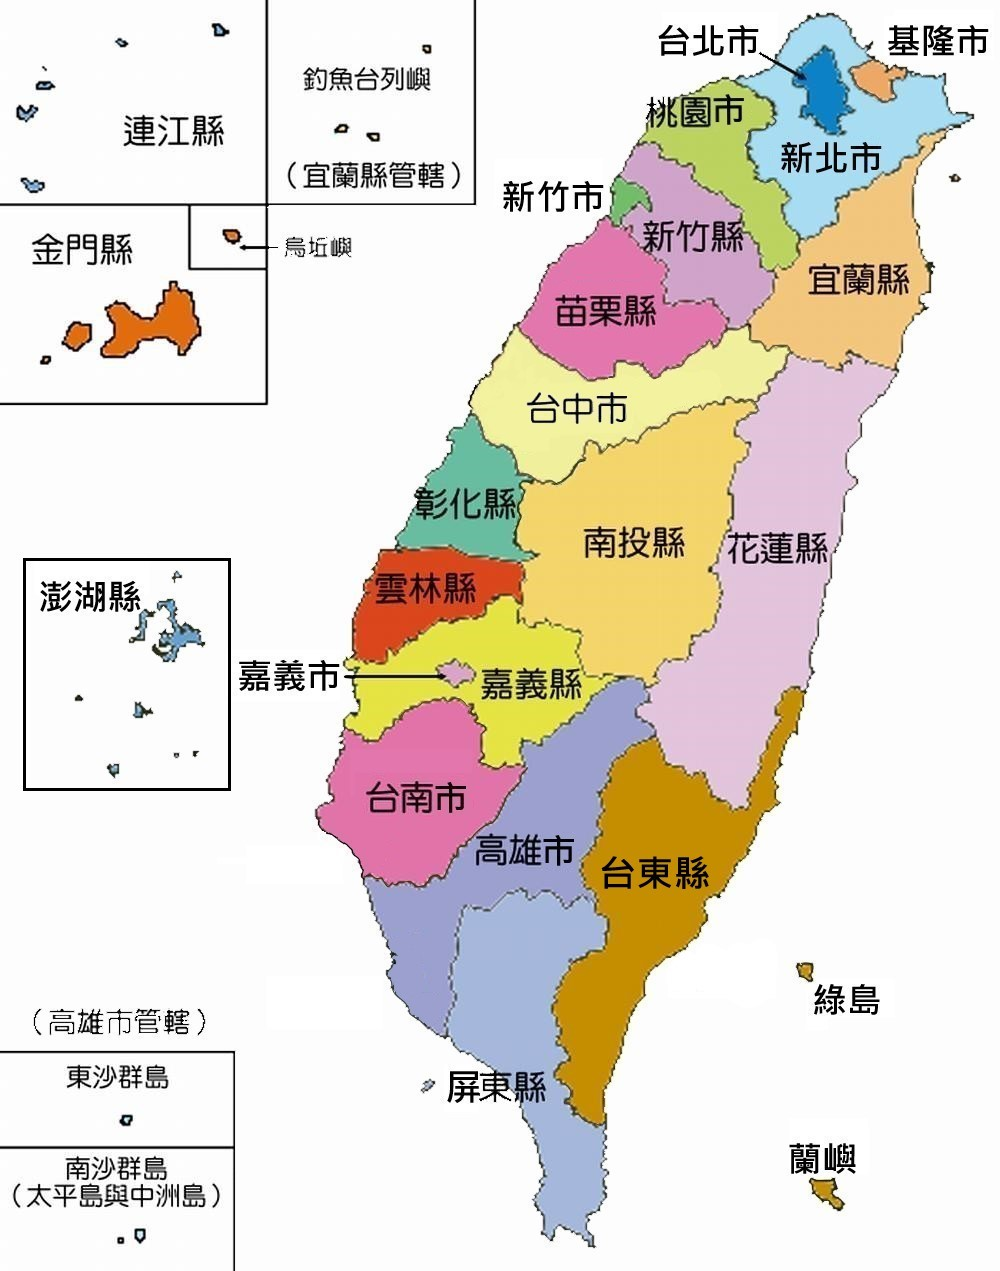
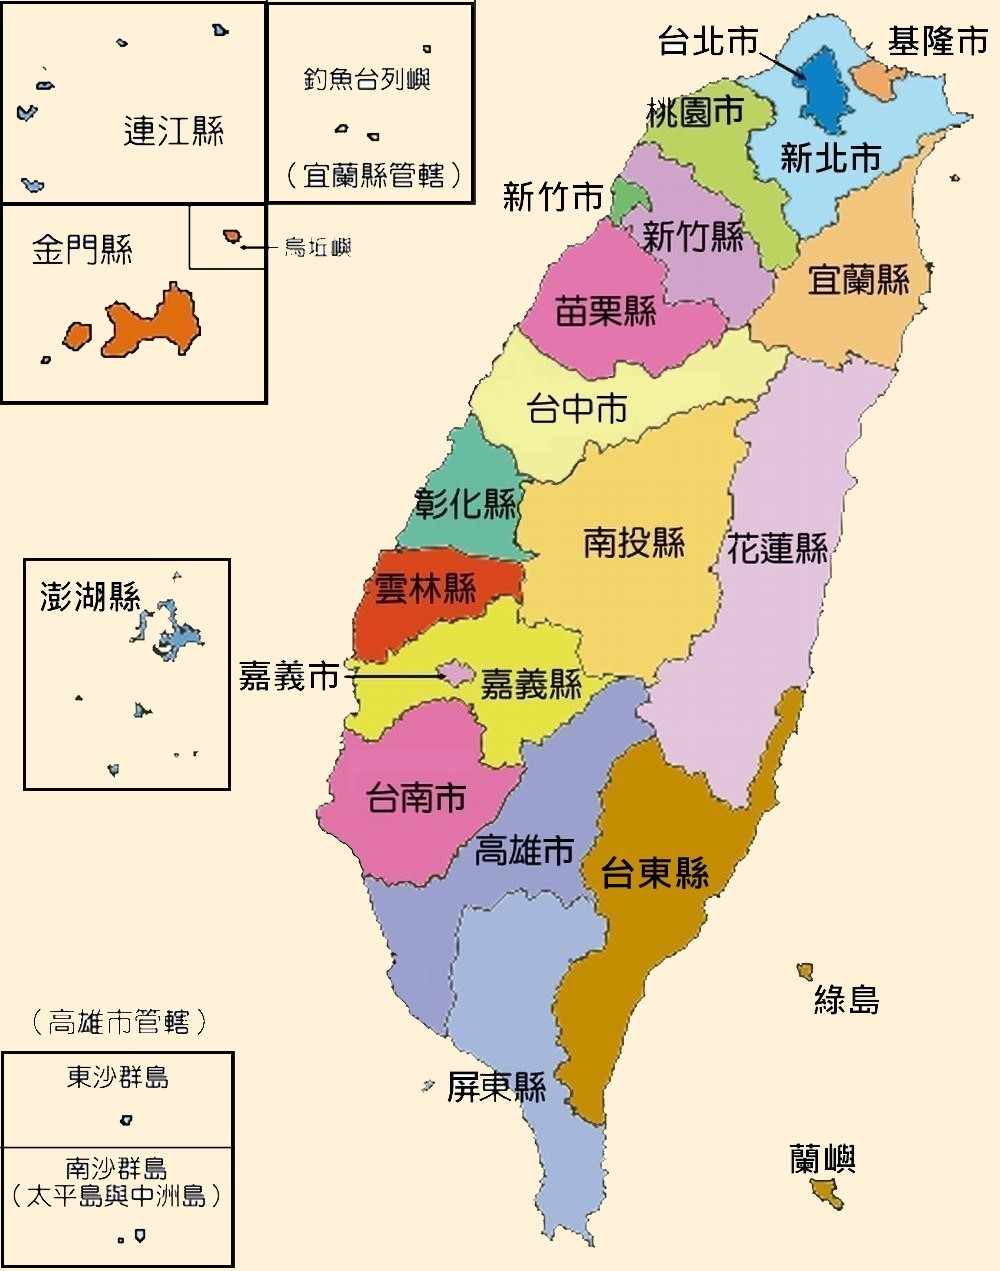
Ver.4
1. 補上"龜山島"
2. 解決"台北"&"基隆"被遮擋問題 (path "新北" 調到最上面)
3. 設版本ver字樣
4. 照片底色更換 (原white

diff --git a/index.html b/index.html
@@ -29,12 +29,15 @@
               <!-- <title>
                   Taiwan_Weather
               </title> -->
+              <!-- 新北 -->
+              <path id="new_taipei" data-name="new_taipei_city" class="96fdfe13-4732-40bb-9e9c-cdc6e310fcb9" d="M571.73,105.84l-1,.09-.77.7-.79-1.47-.94-.34-.6-.68-1-.23-1.24,0-.57.58-1.15.72-2.75-.26-3.37-2.75-.26-1V97.39l-.43-.51.94-.68-.17-.43-2.84-2.86L554,90.84l1-3.09,1-.7.26-1-.43-.85-.68-.62-.43-.6.51-.85.85-.53V81.28l-1.2-.09-1.13.26-.68.68-2.33.79h-1.3L545.41,82l-1,.43-1-.43-3-.09-2-.6-.94.51-.87.85h-1.11l-.7-.85.26-1.11.53-.87.43-.43h-1.3l-1.11.43h-1.24v.79l-.61,1.46-1,1-1.22,1.95-.61-.12-1.22-.85L526,83.73l-2,2.07-1.59.37.37,1.46v3.29L526,94l-.49,1.46-.73,1.22-1.71.12L520,98.36l-3.54-.24-3.66-3.17L508,93.73l-1.1-1.22V91.17l-1,.85-1.59-.37-1.1-1.46-1.59-1.1-2.07-4.63-.12-1.71-1-1.1-1.59-.49-.73-1.34V78l3.29-.37,1.22-.85,1.34-.49,1.71-.12,2.8-1.22.85-1.1,1.58-.37.73-1.1,1.34-.49,1-.76-2-1.43-1-.34-1.11-.77-.36-.87.45-1,2-1-.19-.51-.77-.68.68-.77,1-.53.85-.77-.26-.77-3.09,2.67-4.31.26-3.37-3.46-.17-.85.85-.87-.43-.85h-1.37l-1-.43L497,56.78l.36-2.58L497.14,53l-.45-.85-.77-.68-2.5-3.54-2.16-.68-1.22-1.56-.94-.51h-1.3l-.94-.62-.7-.77-.85-.51-.3-.06-.92.15-.68.77-.34,1h-4.14l-1.3-1.39-.77.51v1.3l-.77.51-3.46.51-.43-1.11-.43.43-.17,1.22-1,.77-2.33.6-.94.7-1.13.34-2.41,5.08-.43.09-2.52-.34-.85.68L460,56.27l-.68.77-.26,1-.87,1.73L458,61.09l-.6.87-.87.51L455.06,64l-.17,1.28L453.5,67.9l-1.3.36-.77-.09.17.77,2.33,2.16,1.3.09,2.41,1.13,1,1.79,1,.7.68.85,1.47,3,.17,5.16-.6.51-.17-1.11-.53-1.13L460.48,81l-1.37-1.81L459,78l-.45-1.2L457,75.24l-4-2.58h-1.3l-.77.68L450.58,75l-2.52,2.41-1.11.34L445,78.87l-1,.26L441.17,81l-3.52,1.11-.87.6-8.2.09-1.64,1.56-.65,1,1.24,1.7.85.24.85,1.1,3.41.37,6.34,3-.37,2.44L440,95.44l3.54.85h3.66l.85.61,1.22,1.46.37,1.59v.49l-.61,1.22.24,1.59.85,1,1.59,1.1-.61,1.1-1.34.85-1.34.49,1.46,1.1.12,1.46-1.1.73-1.46.49L446.05,114l-2,1.34-7.68-.24-1.22.61-.36,1.46.73,1.34-.37,3.41-1,1-.61,1.34.85,1.59,1.46.12,1.1.85-1.46,1-.85,1-.61,1.34.61,2.93,3,1.83,2.32,3.54-.85,1.1.24,1.46.12.12,1.71,1.1-1.1.85-3.17.61-.12,1.46,1.71.24,1.1-.85,1.1,1.1,1.22.73,2,.49,1.83-.12,1.34-.73,3.66-.24.85.49.24.61,1,1,.49,1.34,2,2,1.1.61,1.1,1.22.12,1.71.61,1.71,1.59.49v1.83l-1.1.73-.73,1.1-2.2,1.83-.73,1.34.24,1.59.61,1.22v.73l1.34,3.41,2.19,2.07L459.1,174l1.71.73.12,1.22,1.71.49,1,1.34,1.34,1,.37,3.41,1,.42,3.26.19,1.59-1,3.17-.49,3.54-2.32.37-1.71,4-2.19,1.83-.12,1.46-.49.73-1.1,1.1-.85,1.58-.24,1-2.93v-1.83l-.49-1.46-1-1-.24-1.71,1.34-1.1.24-1.59-.12-1.71.61-1.34,1.46-.37,1.22-.73,1.71.49,1.59-1.22.37-1.46-1-.85,7.19-.85,2.44-1.22,1.1,1.22.49-1.34,1.46-.49.73-1.22,1.22-1.1.37-1.16,3.29-1.77,1.83-2.19,1.34-.73,1.59-.24,5.12.73,1.22-.61,1.71-.37-.12-.85.12-1.46,1-1.22.12-1.46-.37-1.58,1.71-2.2,2.07-1.71,1.58-.24,3.66.24,4-2.68,1-2.93-2.8-4,.61-1.22.37-1.46,1.22-1,3.54.24,1.59.61h2l1-1.1,4.63-3.29,3.66-.24,4.27-1.58,1.71-.12,2.53.47h0l.76-.34.53-1,1.2-.08.51-.77,1.9-.87.53-.9,1.28-.12.47-1,0-1Zm-68.86-.62-4.63-.24-1.46.37-1.1.73-3.41-.24-1.22.73-.85,1.34v1.58l.85,2.8-.12,1.46.24,1.71,3.29,1.59-.12,1.22h-2l-1.46.61-6.83-.73-2.56-1.71-.73-2.93-1.71-.12-1.58-1.1-.85-1.46V109l-.49-1.34-1.1-.85-2-.85-.85.12-.85,1.22-1.34.73-1.46.12-.73-1.46-.37-3.54.61-1.34,1.22-1.1,1.83-2.56L471,92.54l-1-1.83-2.44-2.32-3.9-.49-1.22-.85L462,85.47l.24-1.59,1.22-.73V81.32l.85-1,.24-.49.85-.85.85-1.83h0l1.59-.48.61-1.59,2.07-2.44,1.34-.61,1.71-.12,1.1-.73.61-1.59,2.56-1.46.61-1.34,1.34-.61,1.71-2.68,1,1.1,1.34,2.44,3.17-.24v1.83L486.52,70v1.83l2,2,.12,3.54.73,1.1,2,1.71.37,1.22-1,1.1L490.3,84l5.24,4.51.37,3.17L494.33,95l-.73.85,1,1,.24,1.34-.85,1.1.61,1.34,3.29,2.44,2.68,1.22,1.58-.49,1.1.49Z"/>
+              
+              
               <!-- 基隆 -->
               <path id="keelung" data-name="keelung_city" class="96fdfe13-4732-40bb-9e9c-cdc6e310fcb9" d="M532.38,80.68l.05-.79-.73-.77L532,76.8l-1.22.09-1.62,1-1.47-1.37-1.3-.11-.6-.43V74.56l-1.11-.28-.53,1-1,.26-.26-1H522l.34,1,1,1.39-1.22,1.54-1.9,1.39-.85.09,1.56-1.47-.53-.94V75.33l-1-.09-.94-.51-1.22-.17-1.39-1.39h-2.67l-.77-.51.18-.93-.29-.61L511,71.9l-1.34.49-.73,1.1-1.58.37-.85,1.1-2.8,1.22-1.71.12-1.34.49-1.22.85-3.29.37v1.83l.73,1.34,1.59.49,1,1.1.12,1.71,2.07,4.63,1.59,1.1,1.1,1.46,1.59.37,1-.85v1.34l1.1,1.22L512.75,95l3.66,3.17,3.54.24,3.17-1.58,1.71-.12.73-1.22L526,94l-3.17-3V87.63l-.37-1.46,1.59-.37,2-2.07,1.71.37L529,85l.61.12,1.22-1.95,1-1,.61-1.46h0Z"/>
               <!-- 台北 -->
               <path id="taipei" data-name="taipei_city" class="96fdfe13-4732-40bb-9e9c-cdc6e310fcb9" d="M466.27,77.17,465.42,79l-.85.85-.24.49-.85,1v1.83l-1.22.73L462,85.47l.49,1.59,1.22.85,3.9.49,2.44,2.32,1,1.83.12,5.61-1.83,2.56-1.22,1.1-.61,1.34.37,3.54.73,1.46,1.46-.12,1.34-.73.85-1.22.85-.12,2,.85,1.1.85.49,1.34v1.83l.85,1.46,1.58,1.1,1.71.12.73,2.93,2.56,1.71,6.83.73,1.46-.61h2l.12-1.22-3.29-1.59-.24-1.71.12-1.46-.85-2.8v-1.58l.85-1.34,1.22-.73,3.41.24,1.1-.73,1.46-.37,4.63.24.37-1-1.1-.49-1.58.49L497.86,103l-3.29-2.44L494,99.25l.85-1.1-.24-1.34-1-1,.73-.85,1.59-3.29-.37-3.17L490.29,84l.37-1.59,1-1.1-.37-1.22-2-1.71-.73-1.1-.12-3.54-2-2V70l.49-1.34V66.81l-3.17.24-1.34-2.44-1-1.1-1.71,2.68-1.34.61-.61,1.34-2.56,1.46-.61,1.59-1.1.73-1.71.12-1.34.61-2.07,2.44-.61,1.59-1.59.48h0Z"/>
-              <!-- 新北 -->
-              <path id="new_taipei" data-name="new_taipei_city" class="96fdfe13-4732-40bb-9e9c-cdc6e310fcb9" d="M571.73,105.84l-1,.09-.77.7-.79-1.47-.94-.34-.6-.68-1-.23-1.24,0-.57.58-1.15.72-2.75-.26-3.37-2.75-.26-1V97.39l-.43-.51.94-.68-.17-.43-2.84-2.86L554,90.84l1-3.09,1-.7.26-1-.43-.85-.68-.62-.43-.6.51-.85.85-.53V81.28l-1.2-.09-1.13.26-.68.68-2.33.79h-1.3L545.41,82l-1,.43-1-.43-3-.09-2-.6-.94.51-.87.85h-1.11l-.7-.85.26-1.11.53-.87.43-.43h-1.3l-1.11.43h-1.24v.79l-.61,1.46-1,1-1.22,1.95-.61-.12-1.22-.85L526,83.73l-2,2.07-1.59.37.37,1.46v3.29L526,94l-.49,1.46-.73,1.22-1.71.12L520,98.36l-3.54-.24-3.66-3.17L508,93.73l-1.1-1.22V91.17l-1,.85-1.59-.37-1.1-1.46-1.59-1.1-2.07-4.63-.12-1.71-1-1.1-1.59-.49-.73-1.34V78l3.29-.37,1.22-.85,1.34-.49,1.71-.12,2.8-1.22.85-1.1,1.58-.37.73-1.1,1.34-.49,1-.76-2-1.43-1-.34-1.11-.77-.36-.87.45-1,2-1-.19-.51-.77-.68.68-.77,1-.53.85-.77-.26-.77-3.09,2.67-4.31.26-3.37-3.46-.17-.85.85-.87-.43-.85h-1.37l-1-.43L497,56.78l.36-2.58L497.14,53l-.45-.85-.77-.68-2.5-3.54-2.16-.68-1.22-1.56-.94-.51h-1.3l-.94-.62-.7-.77-.85-.51-.3-.06-.92.15-.68.77-.34,1h-4.14l-1.3-1.39-.77.51v1.3l-.77.51-3.46.51-.43-1.11-.43.43-.17,1.22-1,.77-2.33.6-.94.7-1.13.34-2.41,5.08-.43.09-2.52-.34-.85.68L460,56.27l-.68.77-.26,1-.87,1.73L458,61.09l-.6.87-.87.51L455.06,64l-.17,1.28L453.5,67.9l-1.3.36-.77-.09.17.77,2.33,2.16,1.3.09,2.41,1.13,1,1.79,1,.7.68.85,1.47,3,.17,5.16-.6.51-.17-1.11-.53-1.13L460.48,81l-1.37-1.81L459,78l-.45-1.2L457,75.24l-4-2.58h-1.3l-.77.68L450.58,75l-2.52,2.41-1.11.34L445,78.87l-1,.26L441.17,81l-3.52,1.11-.87.6-8.2.09-1.64,1.56-.65,1,1.24,1.7.85.24.85,1.1,3.41.37,6.34,3-.37,2.44L440,95.44l3.54.85h3.66l.85.61,1.22,1.46.37,1.59v.49l-.61,1.22.24,1.59.85,1,1.59,1.1-.61,1.1-1.34.85-1.34.49,1.46,1.1.12,1.46-1.1.73-1.46.49L446.05,114l-2,1.34-7.68-.24-1.22.61-.36,1.46.73,1.34-.37,3.41-1,1-.61,1.34.85,1.59,1.46.12,1.1.85-1.46,1-.85,1-.61,1.34.61,2.93,3,1.83,2.32,3.54-.85,1.1.24,1.46.12.12,1.71,1.1-1.1.85-3.17.61-.12,1.46,1.71.24,1.1-.85,1.1,1.1,1.22.73,2,.49,1.83-.12,1.34-.73,3.66-.24.85.49.24.61,1,1,.49,1.34,2,2,1.1.61,1.1,1.22.12,1.71.61,1.71,1.59.49v1.83l-1.1.73-.73,1.1-2.2,1.83-.73,1.34.24,1.59.61,1.22v.73l1.34,3.41,2.19,2.07L459.1,174l1.71.73.12,1.22,1.71.49,1,1.34,1.34,1,.37,3.41,1,.42,3.26.19,1.59-1,3.17-.49,3.54-2.32.37-1.71,4-2.19,1.83-.12,1.46-.49.73-1.1,1.1-.85,1.58-.24,1-2.93v-1.83l-.49-1.46-1-1-.24-1.71,1.34-1.1.24-1.59-.12-1.71.61-1.34,1.46-.37,1.22-.73,1.71.49,1.59-1.22.37-1.46-1-.85,7.19-.85,2.44-1.22,1.1,1.22.49-1.34,1.46-.49.73-1.22,1.22-1.1.37-1.16,3.29-1.77,1.83-2.19,1.34-.73,1.59-.24,5.12.73,1.22-.61,1.71-.37-.12-.85.12-1.46,1-1.22.12-1.46-.37-1.58,1.71-2.2,2.07-1.71,1.58-.24,3.66.24,4-2.68,1-2.93-2.8-4,.61-1.22.37-1.46,1.22-1,3.54.24,1.59.61h2l1-1.1,4.63-3.29,3.66-.24,4.27-1.58,1.71-.12,2.53.47h0l.76-.34.53-1,1.2-.08.51-.77,1.9-.87.53-.9,1.28-.12.47-1,0-1Zm-68.86-.62-4.63-.24-1.46.37-1.1.73-3.41-.24-1.22.73-.85,1.34v1.58l.85,2.8-.12,1.46.24,1.71,3.29,1.59-.12,1.22h-2l-1.46.61-6.83-.73-2.56-1.71-.73-2.93-1.71-.12-1.58-1.1-.85-1.46V109l-.49-1.34-1.1-.85-2-.85-.85.12-.85,1.22-1.34.73-1.46.12-.73-1.46-.37-3.54.61-1.34,1.22-1.1,1.83-2.56L471,92.54l-1-1.83-2.44-2.32-3.9-.49-1.22-.85L462,85.47l.24-1.59,1.22-.73V81.32l.85-1,.24-.49.85-.85.85-1.83h0l1.59-.48.61-1.59,2.07-2.44,1.34-.61,1.71-.12,1.1-.73.61-1.59,2.56-1.46.61-1.34,1.34-.61,1.71-2.68,1,1.1,1.34,2.44,3.17-.24v1.83L486.52,70v1.83l2,2,.12,3.54.73,1.1,2,1.71.37,1.22-1,1.1L490.3,84l5.24,4.51.37,3.17L494.33,95l-.73.85,1,1,.24,1.34-.85,1.1.61,1.34,3.29,2.44,2.68,1.22,1.58-.49,1.1.49Z"/>
+              
               <!-- 宜蘭 -->
               <path id="yilan" data-name="yilan_county" class="96fdfe13-4732-40bb-9e9c-cdc6e310fcb9" d="M466.05,182.58l-.32.79-1.12.34-2.41.17-.86.52L460.13,186l-.43,3.45-1.55,2.07-.26,1-.43.86-.26,1-2.33,3.62-.17,1.12h-1.21l-.95.43-.78.6-.27.49-.58.63.07.44.78.52.43.95.09,1.21.34.95-.86.78-.34.17-.34.52-.86.52-.95,1L449,209.6l.43.86.09,5-.52,1.21-.78.95-.95.69L446.16,220l-1.21.95-.34.86-.95-.09-2.33,3.36-.86.52-1.29-.26-.95,1.9-.95.52-.78,2-.6.78-1,.86-.86,1.72.07,1.07-.47.7,1,1.15.61,1.22.37,1.46-.61,4.88,1.83,1.83,1.34.49h3.29l2.8,4.76,1.22.61,1.83-.24.85-1.1,1.1-.85,1.59-.24,1.22-.61,4.88-.61,1.46.73.73,1.22,1.1.73.87,1.44,8.21,5.26h5.52l2.07.86,2.76.34,5.52,3.8,5.69.69,2.07-.52-2.07-1.72.52-2.07,2.24-.52,1.55-1,1.55.69,1.38-1.21-.52-1-1.38-1.21.17-2.24,1.38-.52,2.93,2.59,3.28,1,3.1,2.41,6.21,2.59,5,.34,5.52,2.76,2.82.34-.15-2.76-.51-.85.09-2.5,1.73-3.29.26-1,1-1.73.34-7.43.34-1.11.6-.79v-1.45l.68-2.41,1.22-1.64.34-1.22,1.81-1.11.68-.79.87-1.79.09-1.22,3.09-2.92,3.12-1.3h1.28l.36-.17-1-.51-.68-.7-.51-.85v-1.3l-1.73-1-.34-3.37,1.2-.77.6-.87,2.24-.43,1.9-1.2,1.13-.26.34-1.13-.09-1-.43-1.22-.09-1.22-.51-.77-.19-2.41.53-.77-.62-1,.45-1h1.28l-.17-1-.68-.6-.17-.34,1-.45-.85.19-1.22-.45-.09-.85-1.64-1.47.28-1.11,1.2-.09,1,.6.17,1.22,1.2-.09,1-.53-2.5-2.5-2.07-.68-.28-.51-.34-.11-1.11-1.54-.09-.87-2.5-6.21-.09-2.58-.53-.77.26-.43v-1.39l-.34-1.13.34-7-2-2.15-.6-1v-1.13l-.94-1.11-.43-2.33.09-1.22-.7-.68.34-9.58.45-1.47v-1.28l.85-1.9-.17-2.5.68-2.07.09-1.22,1.64-3.52.17-1.22.87-1.47,1-.51.68-2,.62-.77.94-.34,2.58-3,.87-.43,2.15-2.5.17-2.41.34-1,1.9-1.11,1-.26,1-1.47.81-.65.84-.4,1.71-2.41.19-1.28,1.2-.7,1.22-.17.85-.34.77-.76,1.13-.17.85-.53,1.3-.09,1.85-.84-2.48-.49-1.71.12-4.27,1.59-3.66.24L549,118.15l-1,1.1h-2l-1.59-.61-3.54-.24-1.22,1-.37,1.46-.61,1.22,2.8,4-1,2.93-4,2.68-3.66-.24-1.59.24-2.07,1.71-1.71,2.19.37,1.58-.12,1.46-1,1.22-.12,1.46.12.85-1.71.37-1.22.61-5.12-.73-1.59.24-1.34.73L514,145.59l-3.29,1.77-.37,1.16-1.22,1.1-.73,1.22-1.46.49-.49,1.34-1.1-1.22-2.44,1.22-7.19.85,1,.85-.37,1.46-1.58,1.22-1.71-.49-1.22.73-1.46.36-.61,1.34.12,1.71-.24,1.58-1.34,1.1.24,1.71,1,1,.49,1.46v1.83l-1,2.93-1.58.24-1.1.85-.73,1.1-1.46.49-1.83.12-4,2.19-.37,1.71-3.54,2.32-3.17.49-1.58,1-3.51-.2h0Z"/>
               <!-- 桃園 -->
@@ -80,7 +83,8 @@
               <path id="green_island" data-name="green_island_township" class="96fdfe13-4732-40bb-9e9c-cdc6e310fcb9" d="M465.06,628.56v1.83l1.58,1.1.49,1.71V635l.73.85,1.71.24,1.71,2.07,1.71.49,1.22-.24L473,637.21l-.12-1.46,1.95-2.8v-1.83l-.36-1.59-1.1-.85-1.83.12-1.59-.73-3.54.61-1.34-.12h0Z"/>
               <!-- 蘭嶼 -->
               <path id="lanyu" data-name="lanyu_township" class="96fdfe13-4732-40bb-9e9c-cdc6e310fcb9" d="M485.42,775.14l1,1.34,1.1,1h1.83l1.71.37.85-.24.49-1.34.85-1.1.24-1.58-1.59-.73-1.1-1.1-1.34-.36-2.93-2.56-.49-1.34.12-1.71,1.71-.12-.12-1.46-1-1-.24-1.58.85-1-.73-1.1-6.71.12-1.34.49h-3.66l-1.1-.73-1.1.24v1.22l1.34.85v5.37l.73,1.1,1.71.61,3.41,4.27h3.66l1.46,1,.36,1.1h0Z"/>
-              
+              <!-- 龜山島 -->
+              <path id="a79d6566-3a81-4189-bd0f-4dc972de6fa0" data-name="guishan_island" class="96fdfe13-4732-40bb-9e9c-cdc6e310fcb9" d="M559.38,143.41l1,.6.86-.09.17-1.12,1.21-.09,1.21.17.34,1.12,1.12.69-.43.69-1.12.43-2.5-.09-1.38-1.29-.52-1h0Z"/>
 
               <!-- 澎湖 -->
               <g id="penghu" data-name="penghu_county">
@@ -103,7 +107,6 @@
                 <path id="8df3e5d2-ac6d-4b3c-8ece-27f289940307" data-name="penghu_county" class="96fdfe13-4732-40bb-9e9c-cdc6e310fcb9" d="M67.25,495.24l-.35,1.38-.69.95,1.12-.34,1.21-1.55-1.29-.43Z"/>
                 <path id="44de2157-cd0f-4c49-acbe-3f3eb067419b" data-name="penghu_county" class="96fdfe13-4732-40bb-9e9c-cdc6e310fcb9" d="M94.24,496.27l-.6,1.29.52.78v.95l.78.78.52-.09v-1.29l.86-.95.43-.86-.69-.6-1.29-.09-.52.09h0Z"/>
                 <path id="b0b2ccdd-fcdf-4a6f-9b32-6959a098936a" data-name="penghu_county" class="96fdfe13-4732-40bb-9e9c-cdc6e310fcb9" d="M45.35,505l-2.16.78-.26,1,.26,1.21.78.6v1.29l1.21,1.64.43.17.09-1.21,1-.69,1-.26.26-2.5.86-.78-1.72-1.38-1.81.09h0Z"/>
-                <path id="a79d6566-3a81-4189-bd0f-4dc972de6fa0" data-name="guishan_island" class="96fdfe13-4732-40bb-9e9c-cdc6e310fcb9" d="M559.38,143.41l1,.6.86-.09.17-1.12,1.21-.09,1.21.17.34,1.12,1.12.69-.43.69-1.12.43-2.5-.09-1.38-1.29-.52-1h0Z"/>
               </g>
               <!-- <path id="d280cd89-2c2b-4087-8467-d9f6efea93ec" data-name="path3219" class="e8e3f4a4-ad34-4cc6-9b06-8353f08c9353" d="M49.65,742.23l.76-.48.89,0,1.36.82,1.52.35.6.6.76,1.55-1.49-.1-2-.6-1.93-.63-1-.63.79-.06,1.43.86,1.93-.29-.41-.67-1.9-.32-.48-.25-.92.16.06-.35Z"/> -->
              
@@ -135,6 +138,9 @@
 
             </svg>  
             </section>
+            <div id="w23" class="ver">2023 ver.</div>
+            
+            <div id="line"></div>
 
             <section id="ver20">
                 <img src="taiwan.jpg" width="500" height="600" usemap="#Map">
@@ -209,6 +215,10 @@
             </map>
 
             </section>
+            <span id="w20" class="ver">2020 ver. 
+                <!-- <span id="ps">※ jpg圖，底色原為白色</span> -->
+            </span>
+            
         </div>
         <script src="script.js"></script>
     </body>

diff --git a/style.sass b/style.sass
@@ -8,22 +8,26 @@ body
 
 #vs
   display: grid
-  grid-template-columns: 0.2fr 1fr 1fr 0.2fr
-  grid-template-rows: 1fr
-  grid-template-areas:". ver20 ver23 ."
-  column-gap: 20px
+  grid-template-columns: 0.2fr 1fr 0.2fr 1fr 0.2fr
+  grid-template-rows: 95% 5%
+  grid-template-areas:". ver20 line ver23 ." ". w20 line w23 ."
+  column-gap: 40px
+  row-gap: 15px
 
 
 #ver23
+  grid-area: ver23
   display: grid
   grid-template-columns: 0.5fr 5fr 0.5fr
   grid-template-rows: 0.5fr 5fr
   grid-template-areas: ". place ." ". d3map ."
   //position: relative
-  grid-area: ver23
-  border: 1px solid
   height: 78vh
+  margin-left: -40px
 
+
+#w23
+    grid-area: w23
 
 .title_area
   grid-area: place
@@ -34,44 +38,42 @@ body
   h1
     font-size: 55px
     letter-spacing: 3px
-    border: 1px solid none
     border-radius: 15px
     background-color: #65647C
-    //color: #EAD7BB
     color: #F1D3B3
     margin: 10px
     padding-top: 5px
-    white-space:nowrap
-    min-width: 41vw
+    max-width: 45vw
+    
     
     
 
 svg
   grid-area: d3map
-  height: 80vh
+  height: 75vh
   margin-top:-10px
-  border: 1px solid
+  margin-left:-20px
   //position: absoluate
   //left: 50%
   //transform: translateX(48%)
-
-  
-
-
   
 
 
 #ver20
   grid-area: ver20
   position: relative
+  
 
   img
-    height: 80vh
+    height: 75vh
     //width: 50vw
     position: absoluate
     top: 50%
     transform: translateY(10%)
 
+#w20
+    grid-area: w20
+    display: relative
 
   
 path
@@ -86,15 +88,27 @@ path
     //fill: #F5933D   //滑鼠移到臺灣時color
     fill: #113946
     transform: translate(-5px,-5px) //往上&往左浮動
-  
+    
+    
+    
   &:active
     fill: #A75D5D
 
+.ver
+  font-size: 35px
+  color: #C08261
   
-    
-   
-    
-  
+
+#line
+  grid-area: line
+  border-left: 8px dashed #8D7B68  
+  height:82vh
+  margin: 30px 5px 30px 5px
+
+#ps
+  font-size: 14px
+  color: #A4907C
+  margin-left:170px
   
 
   

diff --git a/style.css b/style.css
@@ -8,20 +8,25 @@ body {
 
 #vs {
   display: grid;
-  grid-template-columns: 0.2fr 1fr 1fr 0.2fr;
-  grid-template-rows: 1fr;
-  grid-template-areas: ". ver20 ver23 .";
-  column-gap: 20px;
+  grid-template-columns: 0.2fr 1fr 0.2fr 1fr 0.2fr;
+  grid-template-rows: 95% 5%;
+  grid-template-areas: ". ver20 line ver23 ." ". w20 line w23 .";
+  column-gap: 40px;
+  row-gap: 15px;
 }
 
 #ver23 {
+  grid-area: ver23;
   display: grid;
   grid-template-columns: 0.5fr 5fr 0.5fr;
   grid-template-rows: 0.5fr 5fr;
   grid-template-areas: ". place ." ". d3map .";
-  grid-area: ver23;
-  border: 1px solid;
   height: 78vh;
+  margin-left: -40px;
+}
+
+#w23 {
+  grid-area: w23;
 }
 
 .title_area {
@@ -32,19 +37,19 @@ body {
 .title_area h1 {
   font-size: 55px;
   letter-spacing: 3px;
-  border: 1px solid none;
   border-radius: 15px;
   background-color: #65647C;
   color: #F1D3B3;
   margin: 10px;
   padding-top: 5px;
-  min-width: 41vw;
+  max-width: 45vw;
 }
+
 svg {
   grid-area: d3map;
-  height: 80vh;
+  height: 75vh;
   margin-top: -10px;
-  border: 1px solid;
+  margin-left: -20px;
 }
 
 #ver20 {
@@ -52,10 +57,15 @@ svg {
   position: relative;
 }
 #ver20 img {
-  height: 80vh;
+  height: 75vh;
   position: absoluate;
   top: 50%;
   transform: translateY(10%);
+}
+
+#w20 {
+  grid-area: w20;
+  display: relative;
 }
 
 path {
@@ -70,6 +80,24 @@ path:hover {
 }
 path:active {
   fill: #A75D5D;
+}
+
+.ver {
+  font-size: 35px;
+  color: #C08261;
+}
+
+#line {
+  grid-area: line;
+  border-left: 8px dashed #8D7B68;
+  height: 82vh;
+  margin: 30px 5px 30px 5px;
+}
+
+#ps {
+  font-size: 14px;
+  color: #A4907C;
+  margin-left: 170px;
 }
 
 /*# sourceMappingURL=style.css.map */

diff --git a/script.js b/script.js
@@ -98,7 +98,11 @@ let place_data=[
     {
         tag: "liuqiu_island",
         place: "琉球嶼"
-      }
+      },
+    {
+        tag: "guishan_island",
+        place: "龜山島"
+    }
     ];
     
     // Vue 要告訴它 執行的作用範圍
@@ -156,20 +160,16 @@ let chiayi_city_1 = document.getElementById("chiayi_city_1");
 
 chiayi_city_1.addEventListener("mouseover", function(){
     chiayi_city_1.style.fill = "#FFF2D8";
-    chiayi_city_1.style.transform = "translateX(0px)";
-    chiayi_city_1.style.transform = "translateY(0px)";
+    chiayi_city_1.style.transform = "translateX(0px) translateY(0px)";
+});
+chiayi_city_1.addEventListener("mouseout", function(){
+    chiayi_city_1.style.fill = "#FFF2D8";
 });
 
 let keelung = document.getElementById("keelung");
 let keelung_URL = "https://www.klcg.gov.tw/";
 keelung.addEventListener("click", function(){
 	window.open(keelung_URL, "_blank");
-});
-keelung.addEventListener("mousedown", function(){
-	keelung.style.fill = "red";
-});
-keelung.addEventListener("mouseup", function(){
-	keelung.style.fill = "";
 });
 let taipei = document.getElementById("taipei");
 let taipei_URL = "https://www.gov.taipei/";
@@ -290,4 +290,9 @@ let lianjiang = document.getElementById("lianjiang");
 let lianjiang_URL = "https://www.matsu.gov.tw/";
 lianjiang.addEventListener("click", function(){
 	window.open(lianjiang_URL, "_blank");
+});
+let guishan = document.getElementById("guishan_island");
+let guishan_URL = "https://events.necoast-nsa.gov.tw/coast/index.aspx";
+guishan.addEventListener("click", function(){
+	window.open(guishan_URL, "_blank");
 });
